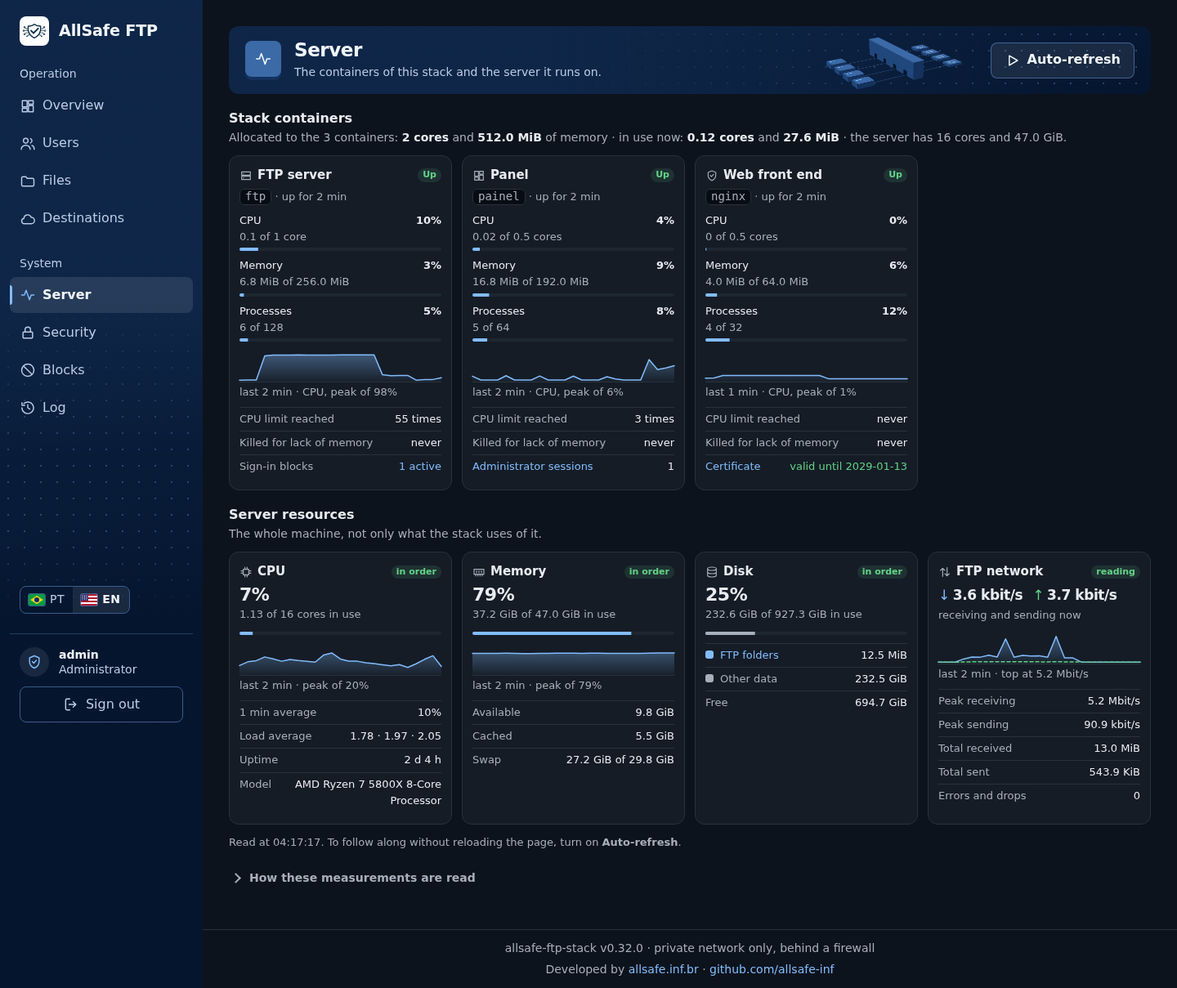
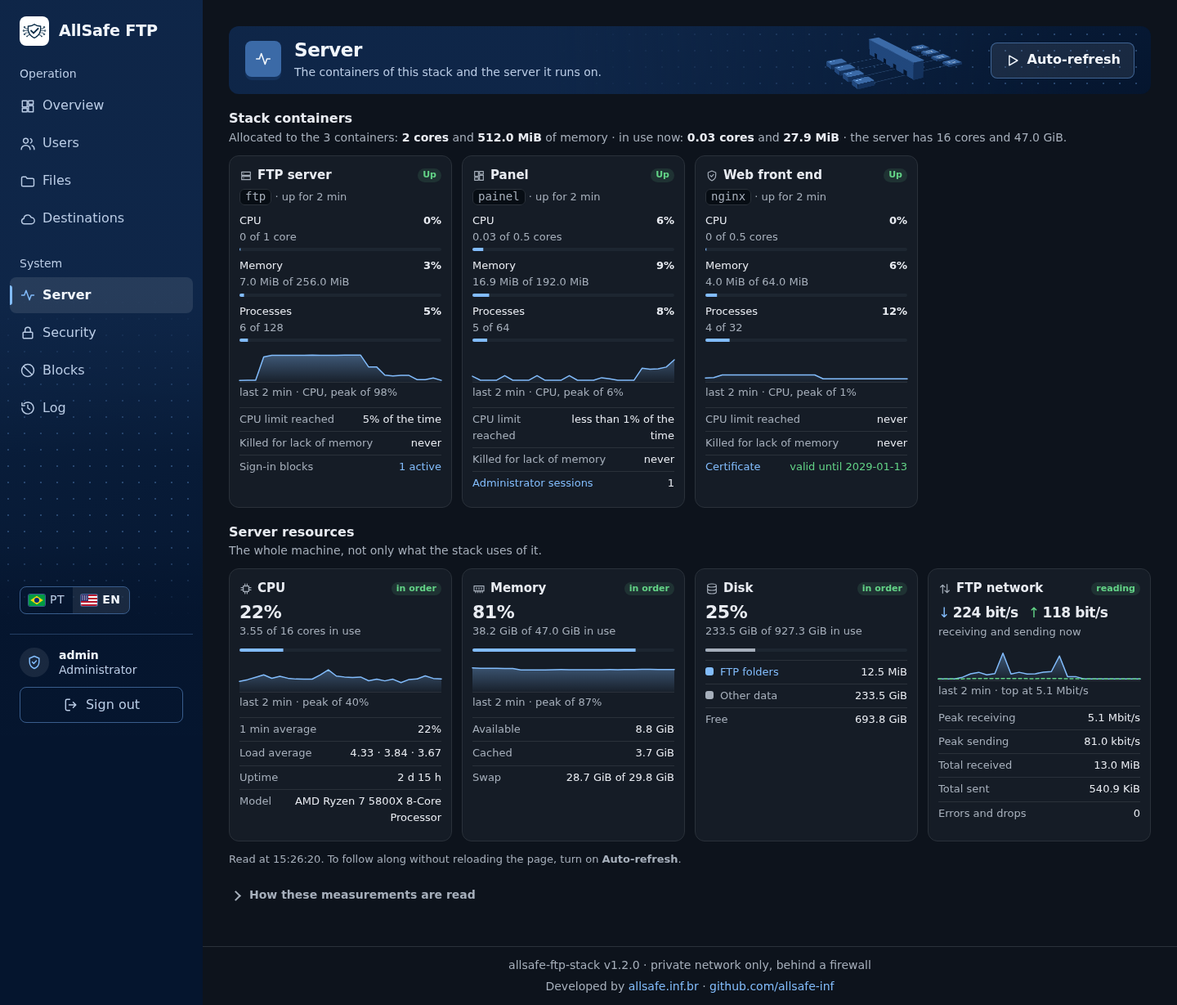
chore: versão 1.2.0
Número da versão, changelog e selo dos dois README para a 1.2.0: lista
fechada do que o painel pede a um destino, explicação Como o painel envia
no alto da aba Destinos e linha do limite de processador medida no
período do histórico.

Fotos da aba Destinos e da aba Servidor refeitas nos dois idiomas, com
legendas e textos alternativos da tela desta versão; a galeria do README
foi refeita inteira, para a legenda única valer para todas as fotos.

diff --git a/README.pt-BR.md b/README.pt-BR.md
@@ -11,7 +11,7 @@
 
 Desenvolvido pela [allsafe.inf.br](https://allsafe.inf.br) · [github.com/allsafe-inf](https://github.com/allsafe-inf)
 
-![Versão](https://img.shields.io/badge/vers%C3%A3o-1.1.0-blue)
+![Versão](https://img.shields.io/badge/vers%C3%A3o-1.2.0-blue)
 ![Status](https://img.shields.io/badge/status-est%C3%A1vel_LTS-brightgreen)
 [![Licença](https://img.shields.io/badge/licen%C3%A7a-Apache--2.0-blue)](LICENSE)
 ![Docker Engine](https://img.shields.io/badge/Docker_Engine-29.8-2496ed?logo=docker&logoColor=white)
@@ -123,7 +123,7 @@ O painel web, aba por aba. A aba Visão geral é a imagem do topo desta página,
 |---|---|
 | <a href="doc/pt-BR/imagens/aba-usuarios.png"><img src="doc/pt-BR/imagens/aba-usuarios.png" alt="Aba Usuários com o botão Novo usuário e a lista das contas: primeiro o administrador admin, com a etiqueta você, depois os usuários do FTP, cada um com o perfil embaixo do nome e as etiquetas inicial, limites, limpeza e bloqueado, a pasta, com a etiqueta dividida em duas, uso, arquivos, último envio, a coluna TLS, com obrigatório em todas as linhas, as ações Editar, Dispensar TLS, Trocar senha e Remover e, abaixo da lista, o recolhido Como funcionam os perfis e as etiquetas" width="100%"></a> | <a href="doc/pt-BR/imagens/aba-arquivos.png"><img src="doc/pt-BR/imagens/aba-arquivos.png" alt="Aba Arquivos no primeiro nível, com a lista das pastas dos usuários, a data de cada uma, os botões Renomear e Apagar em cada linha e os cartões Nova pasta e Enviar arquivo" width="100%"></a> |
 | **Usuários** — cria cada conta, escolhe o perfil, troca a senha, a pasta e os limites, desbloqueia e remove | **Arquivos** — navega nas pastas dos usuários, envia e baixa arquivo, cria pasta, renomeia e apaga |
-| <a href="doc/pt-BR/imagens/aba-destinos.png"><img src="doc/pt-BR/imagens/aba-destinos.png" alt="Aba Destinos com o cartão Armazenamento S3 ligado, com o endereço, o bucket, a pasta enviada, as passadas, a última passada e o total enviado, o cartão Bot do Telegram ligado, com a pasta, o maior arquivo que o bot envia, a última passada e o total enviado, e os botões Testar, Enviar agora, Alterar e Remover em cada um" width="100%"></a> | <a href="doc/pt-BR/imagens/aba-servidor.png"><img src="doc/pt-BR/imagens/aba-servidor.png" alt="Aba Servidor com o botão Atualizar sozinha, o cartão Containers da stack, com um quadro para o Servidor FTP, um para o Painel e um para a Frente web, cada um com processador, memória e processos em uso e alocados e o gráfico do último minuto, e o cartão Recursos do servidor, com processador, memória, disco e rede do FTP" width="100%"></a> |
+| <a href="doc/pt-BR/imagens/aba-destinos.png"><img src="doc/pt-BR/imagens/aba-destinos.png" alt="Aba Destinos com o cartão Armazenamento S3 ligado, com o endereço, o bucket, a pasta enviada, as passadas, a última passada e o total enviado, o cartão Bot do Telegram ligado, com a pasta, o maior arquivo que o bot envia, a última passada e o total enviado, e os botões Testar, Enviar agora, Alterar e Remover em cada um, e, no alto da tela, a explicação Como o painel envia, recolhida" width="100%"></a> | <a href="doc/pt-BR/imagens/aba-servidor.png"><img src="doc/pt-BR/imagens/aba-servidor.png" alt="Aba Servidor com o botão Atualizar sozinha, o cartão Containers da stack, com um quadro para o Servidor FTP, um para o Painel e um para a Frente web, cada um com processador, memória e processos em uso e alocados, o gráfico dos últimos minutos e a parte do tempo em que o limite de processador foi atingido, e o cartão Recursos do servidor, com processador, memória, disco e rede do FTP" width="100%"></a> |
 | **Destinos** — envia sozinho os arquivos de uma pasta para um armazenamento S3 e por um bot do Telegram, com teste e envio na hora | **Servidor** — o uso e o limite de processador, memória e processos de cada container, e os recursos do servidor |
 | <a href="doc/pt-BR/imagens/aba-seguranca.png"><img src="doc/pt-BR/imagens/aba-seguranca.png" alt="Aba Segurança com o resumo da conferência no alto, que diz quantos itens estão em ordem, e uma linha por item: endereço público, painel por proxy ou túnel, endereços do FTP e do painel, modo TLS, os dois certificados, redes permitidas, sessão, entrada dos usuários do FTP, bloqueio por tentativa no FTP, com o nome do usuário bloqueado, bloqueio por endereço, com a quantidade de endereços bloqueados, custo das senhas, contato de segurança, container e firewall" width="100%"></a> | <a href="doc/pt-BR/imagens/aba-bloqueios.png"><img src="doc/pt-BR/imagens/aba-bloqueios.png" alt="Aba Bloqueios com a regra em uso abaixo do título, o botão Bloquear endereço, quatro endereços bloqueados, em IPv4 e em IPv6, por erros no FTP, por erros no painel e por um administrador, cada um com desde quando, até quando e os botões Mudar prazo e Desbloquear, e o cartão Usuários bloqueados no FTP, com o usuário switch-core" width="100%"></a> |
 | **Segurança** — confere rede, TLS, certificados, bloqueios, senhas e contato de segurança | **Bloqueios** — os endereços e os prefixos bloqueados, por erro de usuário e senha ou pelo administrador, com bloqueio novo, desbloqueio e troca do prazo |
@@ -132,7 +132,7 @@ O painel web, aba por aba. A aba Visão geral é a imagem do topo desta página,
 | <a href="doc/pt-BR/imagens/aba-meus-arquivos.png"><img src="doc/pt-BR/imagens/aba-meus-arquivos.png" alt="Tela Meus arquivos do usuário olt-centro, de perfil Completo, com as pastas 2026-09 e 2026-10 e um arquivo de configuração, o aviso da limpeza automática acima da lista, os botões Abrir ou Baixar, Renomear e Apagar em cada linha, os cartões Nova pasta e Enviar arquivo e, no menu, só a aba Meus arquivos, os botões PT e EN, o nome do usuário e o botão Sair" width="100%"></a> | |
 | **Meus arquivos** — o usuário do FTP vê a própria pasta e faz nela o que o perfil dele deixa | |
 
-<sub><b>v1.1.0</b> · painel web, uma foto por aba · capturas de 2026-10-11</sub>
+<sub><b>v1.2.0</b> · painel web, uma foto por aba · capturas de 2026-10-11</sub>
 
 Todas as telas, menu por menu, com a explicação de cada uma: [fotos da aplicação](doc/pt-BR/aplicacao/README.md).
 

diff --git a/README.md b/README.md
@@ -11,7 +11,7 @@
 
 Developed by [allsafe.inf.br](https://allsafe.inf.br) · [github.com/allsafe-inf](https://github.com/allsafe-inf)
 
-![Version](https://img.shields.io/badge/version-1.1.0-blue)
+![Version](https://img.shields.io/badge/version-1.2.0-blue)
 ![Status](https://img.shields.io/badge/status-stable_LTS-brightgreen)
 [![License](https://img.shields.io/badge/license-Apache--2.0-blue)](LICENSE)
 ![Docker Engine](https://img.shields.io/badge/Docker_Engine-29.8-2496ed?logo=docker&logoColor=white)
@@ -122,7 +122,7 @@ The web panel, tab by tab. The Overview tab is the image at the top of this page
 |---|---|
 | <a href="doc/en/images/aba-usuarios.png"><img src="doc/en/images/aba-usuarios.png" alt="Users tab with the New user button and the list of accounts: first the administrator admin, with the tag you, then the FTP users, each with the profile below the name and the tags initial, limits, cleanup and blocked, the folder, with the tag shared on two of them, usage, files, last upload, the TLS column, with required on every row, the actions Edit, Exempt from TLS, Change password and Remove and, below the list, the collapsed section How profiles and tags work" width="100%"></a> | <a href="doc/en/images/aba-arquivos.png"><img src="doc/en/images/aba-arquivos.png" alt="Files tab at the first level, with the list of the users' folders, the date of each one, the Rename and Delete buttons on each row and the New folder and Upload file cards" width="100%"></a> |
 | **Users** — creates each account, chooses the profile, changes the password, the folder and the limits, unblocks and removes | **Files** — browses the user folders, uploads and downloads files, creates folders, renames and deletes |
-| <a href="doc/en/images/aba-destinos.png"><img src="doc/en/images/aba-destinos.png" alt="Destinations tab with the S3 storage card turned on, with the address, the bucket, the folder sent, the runs, the last run and the total sent, the Telegram bot card turned on, with the folder, the largest file the bot sends, the last run and the total sent, and the Test, Send now, Change and Remove buttons on each one" width="100%"></a> | <a href="doc/en/images/aba-servidor.png"><img src="doc/en/images/aba-servidor.png" alt="Server tab with the Auto-refresh button, the Stack containers card, with one box for the FTP server, one for the Panel and one for the Web front end, each with CPU, memory and processes in use and allocated and the chart of the last minute, and the Server resources card, with CPU, memory, disk and FTP network" width="100%"></a> |
+| <a href="doc/en/images/aba-destinos.png"><img src="doc/en/images/aba-destinos.png" alt="Destinations tab with the S3 storage card turned on, with the address, the bucket, the folder sent, the runs, the last run and the total sent, the Telegram bot card turned on, with the folder, the largest file the bot sends, the last run and the total sent, and the Test, Send now, Change and Remove buttons on each one, and, at the top of the screen, the How the panel sends explanation, collapsed" width="100%"></a> | <a href="doc/en/images/aba-servidor.png"><img src="doc/en/images/aba-servidor.png" alt="Server tab with the Auto-refresh button, the Stack containers card, with one box for the FTP server, one for the Panel and one for the Web front end, each with CPU, memory and processes in use and allocated, the chart of the last minutes and the share of the time in which the CPU limit was reached, and the Server resources card, with CPU, memory, disk and FTP network" width="100%"></a> |
 | **Destinations** — sends by itself the files of a folder to an S3 storage and through a Telegram bot, with test and send right away | **Server** — the usage and the limit of processor, memory and processes of each container, and the resources of the server |
 | <a href="doc/en/images/aba-seguranca.png"><img src="doc/en/images/aba-seguranca.png" alt="Security tab with the summary of the check at the top, which says how many items are in order, and one line per item: public address, panel behind a proxy or tunnel, addresses of the FTP and of the panel, TLS mode, the two certificates, allowed networks, session, sign-in of FTP users, blocking by attempts on FTP, with the name of the blocked user, blocking by address, with the number of blocked addresses, cost of the passwords, security contact, container and firewall" width="100%"></a> | <a href="doc/en/images/aba-bloqueios.png"><img src="doc/en/images/aba-bloqueios.png" alt="Blocks tab with the rule in use below the title, the Block address button, four blocked addresses, in IPv4 and in IPv6, for errors on FTP, for errors on the panel and by an administrator, each with since when, until when and the Change period and Unblock buttons, and the Users blocked on FTP card, with the user switch-core" width="100%"></a> |
 | **Security** — checks network, TLS, certificates, blocks, passwords and security contact | **Blocks** — the blocked addresses and prefixes, by user and password errors or by the administrator, with new block, unblock and change of period |
@@ -131,7 +131,7 @@ The web panel, tab by tab. The Overview tab is the image at the top of this page
 | <a href="doc/en/images/aba-meus-arquivos.png"><img src="doc/en/images/aba-meus-arquivos.png" alt="My files screen of the user olt-centro, with the Full profile, with the folders 2026-09 and 2026-10 and a configuration file, the automatic cleanup warning above the list, the Open or Download, Rename and Delete buttons on each row, the New folder and Upload file cards and, in the menu, only the My files tab, the PT and EN buttons, the name of the user and the Sign out button" width="100%"></a> | |
 | **My files** — the FTP user sees their own folder and does in it what their profile allows | |
 
-<sub><b>v1.1.0</b> · web panel, one screenshot per tab · captured on 2026-10-11</sub>
+<sub><b>v1.2.0</b> · web panel, one screenshot per tab · captured on 2026-10-11</sub>
 
 Every screen, menu by menu, with the explanation of each one: [application screenshots](doc/en/application/README.md).
 

diff --git a/doc/pt-BR/aplicacao/README.md b/doc/pt-BR/aplicacao/README.md
@@ -1004,9 +1004,9 @@ Quem precisa conferir ou baixar o que foi enviado pede a um administrador ou usa
 
 ## ☁ Destinos
 
-<a href="imagens/destinos.png"><img src="imagens/destinos.png" alt="Aba Destinos com o cartão Armazenamento S3 ligado, com o endereço, o bucket e o prefixo, a região, a pasta enviada, as passadas a cada 60 minutos, Copiar depois do envio, as chaves gravadas sem aparecer na tela, a última passada e o total enviado, o cartão Bot do Telegram ligado, com a pasta, as passadas a cada 5 minutos, o maior arquivo que o bot envia, o idioma das mensagens, a última passada e o total enviado, os botões Testar, Enviar agora, Alterar e Remover em cada cartão e o cartão Como o painel envia" width="100%"></a>
+<a href="imagens/destinos.png"><img src="imagens/destinos.png" alt="Aba Destinos com o cartão Armazenamento S3 ligado, com o endereço, o bucket e o prefixo, a região, a pasta enviada, as passadas a cada 60 minutos, Copiar depois do envio, as chaves gravadas sem aparecer na tela, a última passada e o total enviado, o cartão Bot do Telegram ligado, com a pasta, as passadas a cada 5 minutos, o maior arquivo que o bot envia, o idioma das mensagens, a última passada e o total enviado, os botões Testar, Enviar agora, Alterar e Remover em cada cartão e, no alto da tela, a explicação Como o painel envia, recolhida" width="100%"></a>
 
-<sub><b>v1.1.0</b> · menu Destinos · captura de 2026-10-11</sub>
+<sub><b>v1.2.0</b> · menu Destinos · captura de 2026-10-11</sub>
 
 **Para que serve:** mandar sozinho, para fora do servidor, os arquivos que chegam em uma pasta. São dois destinos: um armazenamento S3, que guarda a segunda cópia ou fica com os arquivos e libera o disco, e um bot do Telegram, que entrega cada arquivo novo a uma pessoa, a um grupo ou a um canal.
 
@@ -1038,9 +1038,9 @@ Cada destino tem uma ligação só, e um não depende do outro. O S3 envia tudo 
 
 ### Destinos ➜ Antes de configurar
 
-<a href="imagens/destinos-sem-destino.png"><img src="imagens/destinos-sem-destino.png" alt="Aba Destinos de uma instalação nova, com os cartões Armazenamento S3 e Bot do Telegram marcados como não configurado, cada um com a explicação do que envia e o botão Configurar, e o cartão Como o painel envia" width="100%"></a>
+<a href="imagens/destinos-sem-destino.png"><img src="imagens/destinos-sem-destino.png" alt="Aba Destinos de uma instalação nova, com os cartões Armazenamento S3 e Bot do Telegram marcados como não configurado, cada um com a explicação do que envia e o botão Configurar, e, no alto da tela, a explicação Como o painel envia, recolhida" width="100%"></a>
 
-<sub><b>v1.1.0</b> · menu Destinos, sem destino gravado · captura de 2026-10-11</sub>
+<sub><b>v1.2.0</b> · menu Destinos, sem destino gravado · captura de 2026-10-11</sub>
 
 A instalação nasce sem destino: enquanto o administrador não gravar um, nada sai do servidor e o painel não abre conexão para fora. Cada cartão diz o que o destino faz e leva ao formulário dele, pelo botão **Configurar**.
 
@@ -1079,7 +1079,7 @@ Serve qualquer serviço que fale o protocolo do S3, na nuvem ou na rede interna.
 
 <a href="imagens/destinos-gravado.png"><img src="imagens/destinos-gravado.png" alt="Aba Destinos com o aviso Destino gravado, vale a partir da próxima passada, e os cartões Armazenamento S3 e Bot do Telegram ligados, cada um com o que foi gravado, os segredos gravados sem aparecer na tela e a última passada como nenhuma ainda" width="100%"></a>
 
-<sub><b>v1.1.0</b> · menu Destinos, depois de gravar · captura de 2026-10-11</sub>
+<sub><b>v1.2.0</b> · menu Destinos, depois de gravar · captura de 2026-10-11</sub>
 
 **Resultado esperado:** a aba volta com o aviso `Destino gravado. Vale a partir da próxima passada.`, e o cartão mostra a etiqueta `ligado`, o endereço, o bucket, a pasta e que as chaves estão gravadas, sem mostrá-las. A primeira passada começa em até um minuto e envia tudo o que já está na pasta.
 
@@ -1139,7 +1139,7 @@ Antes de começar, crie o bot no criador de bots do Telegram e guarde o token qu
 
 <a href="imagens/destinos-teste.png"><img src="imagens/destinos-teste.png" alt="Aba Destinos com o aviso Teste concluído, o destino recebeu, acima dos cartões Armazenamento S3 e Bot do Telegram, cada um com a data da última passada" width="100%"></a>
 
-<sub><b>v1.1.0</b> · menu Destinos, depois do teste · captura de 2026-10-11</sub>
+<sub><b>v1.2.0</b> · menu Destinos, depois do teste · captura de 2026-10-11</sub>
 
 1. No cartão do destino, clique em **Testar**.
 2. Para não esperar o intervalo, clique em **Enviar agora** e atualize a tela em seguida.
@@ -1191,9 +1191,9 @@ O que cada motivo quer dizer e o que fazer está em [Solução de problemas](../
 
 ## 🖥 Servidor
 
-<a href="imagens/servidor.png"><img src="imagens/servidor.png" alt="Aba Servidor com o botão Atualizar sozinha, o cartão Containers da stack, com um quadro para o Servidor FTP, um para o Painel e um para a Frente web, cada um com processador, memória e processos em uso e alocados e o gráfico do último minuto, e o cartão Recursos do servidor, com processador, memória, disco e rede do FTP" width="100%"></a>
+<a href="imagens/servidor.png"><img src="imagens/servidor.png" alt="Aba Servidor com o botão Atualizar sozinha, o cartão Containers da stack, com um quadro para o Servidor FTP, um para o Painel e um para a Frente web, cada um com processador, memória e processos em uso e alocados, o gráfico dos últimos minutos e a parte do tempo em que o limite de processador foi atingido, e o cartão Recursos do servidor, com processador, memória, disco e rede do FTP" width="100%"></a>
 
-<sub><b>v1.1.0</b> · menu Servidor · captura de 2026-10-11</sub>
+<sub><b>v1.2.0</b> · menu Servidor · captura de 2026-10-11</sub>
 
 **Para que serve:** acompanhar quanto cada container da stack usa do que foi alocado para ele e quanto sobra na máquina em que a stack roda.
 

diff --git a/doc/en/application/README.md b/doc/en/application/README.md
@@ -1004,9 +1004,9 @@ Whoever needs to check or download what was uploaded asks an administrator or us
 
 ## ☁ Destinations
 
-<a href="images/destinos.png"><img src="images/destinos.png" alt="Destinations tab with the S3 storage card turned on, with the address, the bucket and the prefix, the region, the folder sent, the runs every 60 minutes, Copy after sending, the keys saved without being shown on screen, the last run and the total sent, the Telegram bot card turned on, with the folder, the runs every 5 minutes, the largest file the bot sends, the message language, the last run and the total sent, the Test, Send now, Change and Remove buttons on each card and the How the panel sends card" width="100%"></a>
+<a href="images/destinos.png"><img src="images/destinos.png" alt="Destinations tab with the S3 storage card turned on, with the address, the bucket and the prefix, the region, the folder sent, the runs every 60 minutes, Copy after sending, the keys saved without being shown on screen, the last run and the total sent, the Telegram bot card turned on, with the folder, the runs every 5 minutes, the largest file the bot sends, the message language, the last run and the total sent, the Test, Send now, Change and Remove buttons on each card and, at the top of the screen, the How the panel sends explanation, collapsed" width="100%"></a>
 
-<sub><b>v1.1.0</b> · Destinations menu · captured on 2026-10-11</sub>
+<sub><b>v1.2.0</b> · Destinations menu · captured on 2026-10-11</sub>
 
 **What it is for:** sending by itself, out of the server, the files that arrive in a folder. There are two destinations: an S3 storage, which holds the second copy or keeps the files and frees the disk, and a Telegram bot, which delivers each new file to a person, a group or a channel.
 
@@ -1038,9 +1038,9 @@ Each destination has a single connection, and one does not depend on the other. 
 
 ### Destinations ➜ Before configuring
 
-<a href="images/destinos-sem-destino.png"><img src="images/destinos-sem-destino.png" alt="Destinations tab of a new installation, with the S3 storage and Telegram bot cards marked as not configured, each with the explanation of what it sends and the Configure button, and the How the panel sends card" width="100%"></a>
+<a href="images/destinos-sem-destino.png"><img src="images/destinos-sem-destino.png" alt="Destinations tab of a new installation, with the S3 storage and Telegram bot cards marked as not configured, each with the explanation of what it sends and the Configure button, and, at the top of the screen, the How the panel sends explanation, collapsed" width="100%"></a>
 
-<sub><b>v1.1.0</b> · Destinations menu, no destination saved · captured on 2026-10-11</sub>
+<sub><b>v1.2.0</b> · Destinations menu, no destination saved · captured on 2026-10-11</sub>
 
 The installation is born with no destination: until the administrator saves one, nothing leaves the server and the panel opens no connection to the outside. Each card says what the destination does and leads to its form, through the **Configure** button.
 
@@ -1079,7 +1079,7 @@ Any service that speaks the S3 protocol works, in the cloud or on the internal n
 
 <a href="images/destinos-gravado.png"><img src="images/destinos-gravado.png" alt="Destinations tab with the notice Destination saved, it takes effect on the next run, and the S3 storage and Telegram bot cards turned on, each with what was saved, the secrets saved without being shown on screen and the last run as none yet" width="100%"></a>
 
-<sub><b>v1.1.0</b> · Destinations menu, after saving · captured on 2026-10-11</sub>
+<sub><b>v1.2.0</b> · Destinations menu, after saving · captured on 2026-10-11</sub>
 
 **Expected result:** the tab comes back with the notice `Destination saved. It takes effect on the next run.`, and the card shows the `on` tag, the address, the bucket, the folder and that the keys are saved, without showing them. The first run starts within a minute and sends everything already in the folder.
 
@@ -1139,7 +1139,7 @@ Before you start, create the bot with the Telegram bot creator and keep the toke
 
 <a href="images/destinos-teste.png"><img src="images/destinos-teste.png" alt="Destinations tab with the notice Test finished, the destination received it, above the S3 storage and Telegram bot cards, each with the date of the last run" width="100%"></a>
 
-<sub><b>v1.1.0</b> · Destinations menu, after the test · captured on 2026-10-11</sub>
+<sub><b>v1.2.0</b> · Destinations menu, after the test · captured on 2026-10-11</sub>
 
 1. On the card of the destination, click **Test**.
 2. To skip the wait for the interval, click **Send now** and refresh the page afterwards.
@@ -1191,9 +1191,9 @@ What each reason means and what to do is in [Troubleshooting](../troubleshooting
 
 ## 🖥 Server
 
-<a href="images/servidor.png"><img src="images/servidor.png" alt="Server tab with the Auto-refresh button, the Stack containers card, with one box for the FTP server, one for the Panel and one for the Web front end, each with CPU, memory and processes in use and allocated and the chart of the last minute, and the Server resources card, with CPU, memory, disk and FTP network" width="100%"></a>
+<a href="images/servidor.png"><img src="images/servidor.png" alt="Server tab with the Auto-refresh button, the Stack containers card, with one box for the FTP server, one for the Panel and one for the Web front end, each with CPU, memory and processes in use and allocated, the chart of the last minutes and the share of the time in which the CPU limit was reached, and the Server resources card, with CPU, memory, disk and FTP network" width="100%"></a>
 
-<sub><b>v1.1.0</b> · Server menu · captured on 2026-10-11</sub>
+<sub><b>v1.2.0</b> · Server menu · captured on 2026-10-11</sub>
 
 **What it is for:** following how much each container of the stack uses of what was allocated to it and how much is left on the machine the stack runs on.
 

diff --git a/CHANGELOG.md b/CHANGELOG.md
@@ -6,6 +6,24 @@ Neste projeto a versão sobe sempre no número do meio (`1.1.0`, `1.2.0`) ou no 
 
 ↩ [README do projeto](README.pt-BR.md)
 
+## [1.2.0] - 2026-10-11
+
+Nada apaga nem lê no destino, por nenhum caminho: o que o painel pode pedir a um bucket e a um bot virou lista fechada. A explicação da aba Destinos foi para o alto da tela, e a linha do limite de processador da aba Servidor passou a mostrar o que acontece agora, e não o que aconteceu desde a subida.
+
+### Adicionado
+
+- **Lista fechada do que sai do painel para um destino**: no S3, só gravar um objeto e criar, concluir ou abandonar um envio em partes; no bot, só enviar arquivo e enviar mensagem. O pedido que não está na lista é recusado antes de sair do servidor, com o motivo "o painel não faz esse pedido a um destino". Apagar ou ler objeto, apagar vários, mexer no bucket ou nas regras dele, e apagar, editar ou ler mensagem não saem do painel pela tela, pela rotina nem pelo terminal.
+- **Bateria**: caso de segurança novo, que chama os módulos de saída direto, dentro do container do painel, com 28 pedidos de apagar, ler e alterar, e confere pelo registro do serviço de exemplo que nenhum chegou. São 83 casos funcionais, 131 de segurança e 14 de rede.
+
+### Alterado
+
+- **Explicação "Como o painel envia" no alto da aba Destinos**, na largura da tela e recolhida, como a explicação das outras abas. Os cartões dos destinos mudam de tamanho conforme o que está gravado, e a explicação não muda mais de lugar com eles.
+- **Fotos da aba Destinos e da aba Servidor**, nos dois idiomas, com as telas desta versão.
+
+### Corrigido
+
+- **"Limite de processador atingido" contando vezes que não voltavam**: a linha da aba Servidor mostrava o contador do grupo de controle do container, que vale desde a subida, soma cada período de 100 ms em que a cota acabou e nunca volta. Toda subida deixava algumas vezes na tela para sempre, sem faltar processador. A linha passa a mostrar a parte dos últimos 10 minutos em que a cota acabou: `nunca`, `menos de 1% do tempo` ou a porcentagem. Vale a pena aumentar `FTP_CPU_LIMIT`, `PAINEL_CPU_LIMIT` ou `NGINX_CPU_LIMIT` só quando a porcentagem é alta e não baixa.
+
 ## [1.1.0] - 2026-10-11
 
 O administrador liga uma pasta dos dados a um armazenamento S3 e a um bot do Telegram pelo painel, e o painel passa a enviar sozinho o que chega nela. Cada arquivo também pode ser enviado na hora, por um botão na aba Arquivos.
